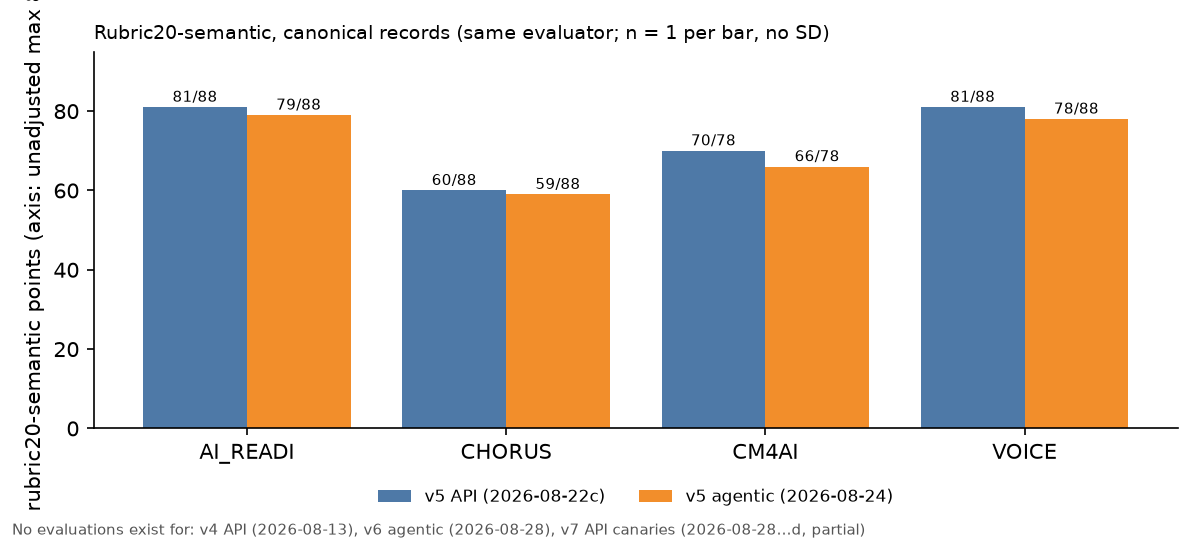
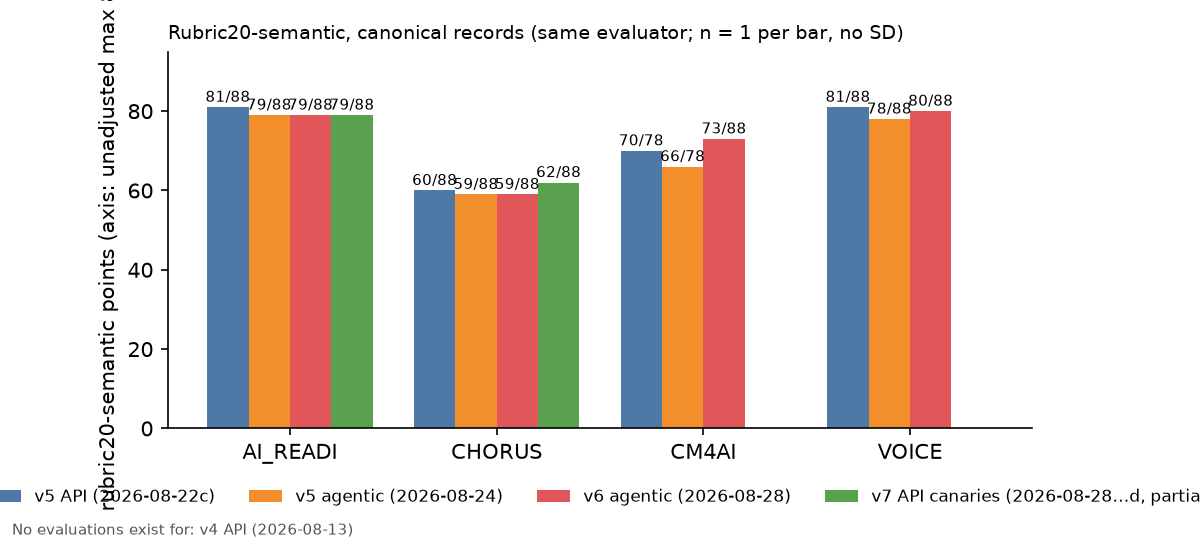
Absorb the #796 review: the numbers the records give, and interpretation marked as such
Closes #797.

diff --git a/scripts/arm_comparison.py b/scripts/arm_comparison.py
@@ -133,7 +133,7 @@ METRICS: dict[str, tuple[str, str, bool, str]] = {
                    "receipts (#708): mismatched + unchecked snippets; same caveat"),
     "wrongchunk": ("snippets not in the chunk cited", "record", True,
                    "receipts (#763): verbatim in the bundle but not in the chunk cited — "
-                   "attribution precision, reported not gated; ~2% on the v7 API canaries"),
+                   "attribution precision, reported not gated; 3.8% on the five v7 API canaries (33/859)"),
     "leaves": ("populated leaves (full record)", "record", False,
                "count of populated leaf values in the full record (receipts.populated_leaves); "
                "informational — the v6 plan's prediction 5 is that it does not fall"),

diff --git a/notes/arm_2026-08-28_interpretation.md b/notes/arm_2026-08-28_interpretation.md
@@ -1,6 +1,6 @@
 # What the 2026-08-28 arms say: agentic v6 (complete) and API v7 (partial)
 
-Written 2026-08-30 from `notes/arm_comparison.md` (regenerated), the run
+Written 2026-08-29/30 from `notes/arm_comparison.md` (regenerated), the run
 records, and the first `d4d-review-record` review. Two arms are new since
 the 2026-08-24 analysis:
 
@@ -24,15 +24,15 @@ now *measured* rather than inferred:
 | | v5 agentic | v6 agentic | v7 API (partial) |
 |---|---|---|---|
 | bundle chunks reviewed | ~80% of AI_READI/CM4AI/VOICE by transcript forensics (#700) | **100%**, 12/12, by receipt + transcript cross-check | 100% by construction (bundle in context; receipt 28/28, 8/8) |
-| snippets verbatim in the bundle | not measured | **3,400 / 3,400** | 1 non-verbatim in 809 (a paraphrase, 28c AI_READI) |
-| snippets in the chunk cited | not measured | 3,400 / 3,400 | **~96%**: 9.7 ± 2.1 of ~220 on AI_READI and 2 of ~105 on CHORUS cite the neighbouring chunk |
-| slots receipted (of receiptable leaves) | — | 45–95% by run | 40–70% |
+| snippets verbatim in the bundle | not measured | **3,400 / 3,400** | 857 / 859: two non-verbatim (a garbled extraction span on 28b AI_READI, a paraphrase on 28c AI_READI) |
+| snippets in the chunk cited | not measured | 3,400 / 3,400 | **96.2%** (824 of 857): 33 cite another chunk — 32 the neighbouring one, 1 elsewhere; 4.4% on AI_READI, 1.9% on CHORUS |
+| slots receipted (of receiptable leaves) | — | 24–95% by run | 25–44% |
 
 Reading: the agentic protocol — read a chunk, write its entry, move on —
 produces exact attribution; the API arm, holding the whole bundle in one
-context, mis-attributes ~3–4% of its quotes to the chunk next door, always
-at or near a boundary. Support (is the text in the bundle at all) is
-essentially perfect on both arms: one paraphrase in 4,209 snippets. The
+context, mis-attributes ~4% of its quotes, nearly always to the chunk next
+door (32 of 33). Support (is the text in the bundle at all) is essentially
+perfect on both arms: two non-verbatim snippets in 4,259. The
 receipted-slot fraction is similar across arms and low in both — a model
 receipts the leaf it copied from, and sibling leaves of the same entry go
 unreceipted. That is a reporting convention, not missing evidence, but it
@@ -53,32 +53,35 @@ one record; the arm-wide review pass is the next evaluation step.
 | minted fragments, VOICE | 49 ± 70 [3, 14, 130] | **13.7 ± 5.5 [19, 8, 14]** | the norm removed the 130 outlier; spread 127 → 11 |
 | minted fragments, CM4AI | 49.3 ± 6.7 [42, 55, 51] | 39 ± 20.8 [51, 15, 51] | did not converge; two runs minted as before |
 | minted fragments, AI_READI / CHORUS | 10.3 / 0 | 10.7 / 0 | unchanged |
-| British spellings | ≤ 4 on every run | 0 on 11 runs, **35** on VOICE rep2 | one outlier run; the arm is otherwise cleaner |
+| British spellings | ≤ 4 on every run | 0 on 10 runs, 2 on CM4AI rep2, **35** on VOICE rep2 | one outlier run; the arm is otherwise cleaner |
 | undeclared prefixes | 0 | 2 on CM4AI rep1 (one `mailto:` URI) | one run |
 | populated leaves, AI_READI | 641 ± 38 | 603 ± 57 | −6% |
 | populated leaves, CHORUS | 287 ± 38 | **228 ± 46** | −21% |
 | populated leaves, CM4AI | 928 ± 84 | **706 ± 191** | −24% |
 | populated leaves, VOICE | 543 ± 94 | 546 ± 80 | unchanged |
-| spend (Mtok, transcript) | 216.6 (388 min) | **378.7 (599 min)** | +75% tokens, +54% wall |
+| spend (Mtok, transcript) | 216.6 (389 min) | **378.8 (597 min)** | +75% tokens, +54% wall; CHORUS rep1's 138 min is the canary's launch-to-finish span, an outlier against 26–27 for its siblings |
 
 Predictions of `notes/generic_v6_analysis_plan.md`: 2, 3, 6 held; 1 half
-(VOICE yes, CM4AI no); 4 falsified once (VOICE rep2). **Prediction 5 —
+(VOICE yes, CM4AI no); 4 — which concerns the *API* arm's spelling against
+v5's per-project worst (30/0/0/4) — held on the v7 canaries (AI_READI
+25/9/21); the agentic VOICE rep2 outlier is not what it predicts.
+**Prediction 5 —
 populated slots should not fall — is the one to take seriously.** Leaves
 fell by a fifth on CHORUS and CM4AI. Two candidate causes, and the arm
 cannot separate them: the minting norm removed parts that were only
 labelled (CM4AI minted 51/15/51 — the run that minted 15 is the one with
 493 leaves against 765 and 860), and the receipt protocol makes every value
 cost a verbatim quote, which discourages the inferred and restated values
-v5 carried freely. The CHORUS review's adverse items (inferred
-`scope_impact`, award period standing in for a collection timeframe) are
-exactly the kind of value that v5 had more of and v6 still has some of; on
-this evidence the fall is at least partly the removal of content the rules
-never allowed, not a loss of support. A per-slot diff of a v5 and a v6 CHORUS
-record against the bundle would settle it and is the right next review.
+v5 carried freely. One reviewed record (CHORUS v6 rep1) still carried
+adverse items of that kind (an inferred `scope_impact`, an award period
+standing in for a collection timeframe), which suggests — one record is
+not evidence — that v5's extra leaves were partly such values. A per-slot
+diff of a v5 and a v6 CHORUS record against the bundle would settle it and
+is the right next review.
 
-The cost is the protocol: reading 28 chunks one call at a time and writing
-28 receipt entries is ~1.75× the tokens of v5's reading. It buys the top
-table.
+The cost is the protocol: a v6 run spends ~1.75× the tokens of a v5 run
+(whole-run transcript totals; the reading share is not separated). It buys
+the top table.
 
 ## 3. API v5 → v7 (partial): what the receipt rule changed
 
@@ -90,26 +93,27 @@ table.
 | organisational fragments / resolver URLs | 0 | one run (28b) had 1 and 2; the re-canaries 0 | one-run noise, not systematic |
 | populated leaves, AI_READI | 674 ± 124 | **522 ± 142** [446, 434, 685] | −23%, high variance |
 | populated leaves, CHORUS | 242 ± 48 | 202 ± 10 | −16% |
-| cost per run (CBORG rates) | $11.2 mean (9 calls) | **$8.0** (6–7 calls) | the two generated core phases are gone; the receipt adds ~9k output tokens |
+| cost per run (CBORG rates), by project | AI_READI $18.2 / $15.2; CHORUS $5.2 / $4.7 / $6.0 (9 calls) | AI_READI $12.6 / $8.6 / $11.5; CHORUS $3.4 / $4.1 (6–7 calls) | the three generated core calls (core, reconcile_core, repair_core) are gone; 22c AI_READI rep2's usage is partial (repair calls only) and is excluded from the v5 figures |
 | full-phase output, AI_READI | 55–74k | **72–96k** (thinking ~70% of it) | hit the 96k cap once; raised to 128k for receipt conditions (#768) |
 
-The leaves fall on the API arm too, and the mechanism there is visible in
-the token accounting: the `full` phase writes the record *and* the receipt
-in one output budget that thinking already fills to ~70%, and AI_READI's
-first attempt truncated at the cap. Whether the leaner records are leaner
-in unsupported content (as the rules intend) or in supported content (a
-budget effect) is, again, a per-slot question the review agent can answer
-and the gate cannot.
+The leaves fall on the API arm too. One candidate mechanism is measured
+but its link to the fall is not: the `full` phase writes the record *and*
+the receipt in one output budget that thinking already fills to 66–73%,
+and AI_READI's first attempt truncated at the 96k cap. Whether the leaner
+records are leaner in unsupported content (as the rules intend) or in
+supported content (a budget effect) is, again, a per-slot question the
+review agent can answer and the gate cannot.
 
 ## 4. Across the arms
 
 With a receipt on both sides, the first like-for-like cross-arm statement
 is possible: on the same bundles, under the same rules, **the agentic arm
-quotes with exact attribution and the API arm with ~96% attribution; both
-quote verbatim; the agentic arm carries ~15% more populated leaves on
-AI_READI and ~13% on CHORUS, at roughly 5× the token spend** (378.7 Mtok
-subscription tokens for 12 runs against ~$8 × 12 ≈ $96 of metered API
-spend — different quantities, not a cost comparison, #400). Report-claims
+quotes with exact attribution and the API arm with 96% attribution; both
+quote verbatim; the agentic arm carries 15.6% more populated leaves on
+AI_READI and 12.7% on CHORUS.** Spend is not comparable across arms
+(transcript-observed tokens against metered API dollars, #400): the
+agentic arm's 378.8 Mtok for 12 runs stands beside ~$8–13 per API run on
+the same projects, and neither converts to the other. Report-claims
 findings are 0ᵘ on nearly every run of every arm (#684): still unmeasured.
 
 ## 5. Rubric10-semantic (same evaluator, claude-fable-5; every replicate)

diff --git a/notes/arm_comparison.md b/notes/arm_comparison.md
@@ -81,7 +81,7 @@ Cells are mean ± sample SD over the *measured* replicates, with every replicate
 - **minted fragments (reported)** — record block. reported-only; every fragment hangs off an attested base wherever ungrounded is 0. Appetite varies 3→130 within one project (#685).
 - **chunks unreviewed** — record block. receipts (#708): manifest chunks with no receipt entry. Only arms whose procedure wrote a coverage receipt carry a value; earlier arms are –, not 0.
 - **snippets unverified** — record block. receipts (#708): mismatched + unchecked snippets; same caveat.
-- **snippets not in the chunk cited** — record block. receipts (#763): verbatim in the bundle but not in the chunk cited — attribution precision, reported not gated; ~2% on the v7 API canaries.
+- **snippets not in the chunk cited** — record block. receipts (#763): verbatim in the bundle but not in the chunk cited — attribution precision, reported not gated; 3.8% on the five v7 API canaries (33/859).
 - **populated leaves (full record)** — record block. count of populated leaf values in the full record (receipts.populated_leaves); informational — the v6 plan's prediction 5 is that it does not fall.
 - **slots without a receipt** — record block. receipts (#708): receiptable populated leaves with no receipt; exempt slots (runner-set, minted, commentary) are outside the denominator.
 - **GC label variants (reported)** — live recompute, current instrument. reported-only; counted against the manifest naming declaration decided 2026-08-22, so anachronistic for the v4 arm and same-day for 22c. For VOICE the count is the dataset's own PhysioNet title, lawful under the proper-noun carve-out (#674).
@@ -99,9 +99,9 @@ Cells are mean ± sample SD over the *measured* replicates, with every replicate
 
 | project | v4 API (2026-08-13) | v5 API (2026-08-22c) | v5 agentic (2026-08-24) | v6 agentic (2026-08-28) | v7 API canaries (2026-08-28…d, partial) |
 |---|---|---|---|---|---|
-| AI_READI | – | 81/88 (92.0%, 22c/rep2) | 79/88 (89.8%, rep2) | – | – |
-| CHORUS | – | 60/88 (68.2%, 22c/rep3) | 59/88 (67.0%, rep1) | – | – |
-| CM4AI | – | 70/78 (89.7%, 22c/rep1) | 66/78 (84.6%, rep2) | – | – |
-| VOICE | – | 81/88 (92.0%, 22c/rep2) | 78/88 (88.6%, rep1) | – | – |
+| AI_READI | – | 81/88 (92.0%, 22c/rep2) | 79/88 (89.8%, rep2) | 79/88 (89.8%, rep1); 78/88 (88.6%, rep2); 80/88 (90.9%, rep3) | 79/88 (89.8%, 28b/rep1); 80/88 (90.9%, 28c/rep1); 84/88 (95.5%, 28d/rep1) |
+| CHORUS | – | 60/88 (68.2%, 22c/rep3) | 59/88 (67.0%, rep1) | 59/88 (67.0%, rep1); 58/88 (65.9%, rep2); 57/83 (68.7%, rep3) | 62/88 (70.5%, rep1); 60/88 (68.2%, 28b/rep1) |
+| CM4AI | – | 70/78 (89.7%, 22c/rep1) | 66/78 (84.6%, rep2) | 73/88 (83.0%, rep1); 68/78 (87.2%, rep2); 68/78 (87.2%, rep3) | – |
+| VOICE | – | 81/88 (92.0%, 22c/rep2) | 78/88 (88.6%, rep1) | 80/88 (90.9%, rep1); 78/88 (88.6%, rep2); 80/88 (90.9%, rep3) | – |
 
 Evaluator model(s) recorded: claude-fable-5. Scores are shown as points / adjusted maximum after N/A exclusions; raw points are comparable within a rubric, percentages are denominator-sensitive. No gold standard exists (#177); the rubrics are not domain-neutral (#627); rubric20's N/A convention is #155's.
